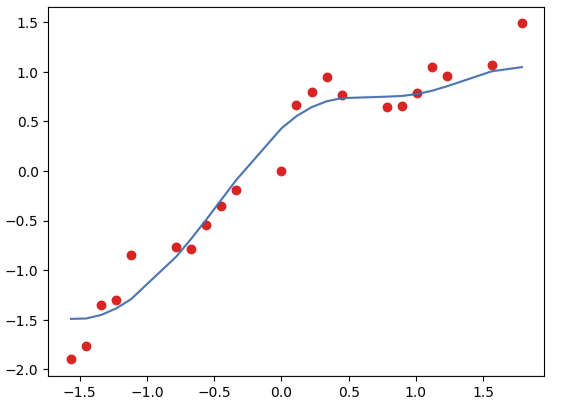
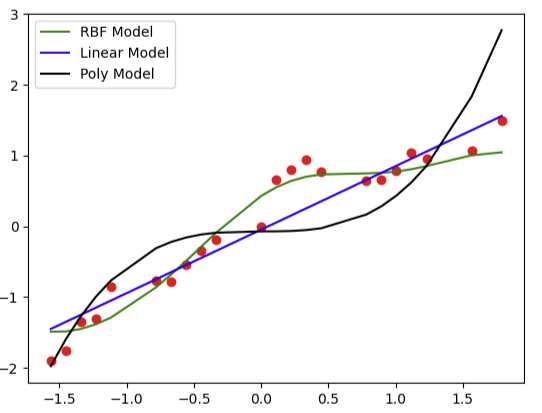
u

diff --git a/Anlasilir Ekonomi/Python ile Makine Öğrenmesi/Notlar.md b/Anlasilir Ekonomi/Python ile Makine Öğrenmesi/Notlar.md
@@ -1648,14 +1648,28 @@ y = scy.fit_transform(y)
 
 from sklearn.svm import SVR
 
-svrmodel = SVR()
-svrmodel.fit(X, y.ravel())
-tahmin = svrmodel.predict(X)
+# RBF kernel
+svr_rbf = SVR(kernel="rbf")
+svr_rbf.fit(X, y)
+tahmin_rbf = svr_rbf.predict(X)
+
+# Linear kernel
+svr_lin = SVR(kernel="linear")
+svr_lin.fit(X, y)
+tahmin_lin = svr_lin.predict(X)
+
+# Poly kernel
+svrpoly=SVR(kernel="poly")
+svrpoly.fit(X,y)
+tahmin_poly=svrpoly.predict(X)
 
 import matplotlib.pyplot as plt
 
 plt.scatter(X, y, color="red")
-plt.plot(X, tahmin)
+plt.plot(X, tahmin_rbf, color="green", label="RBF Model")
+plt.plot(X, tahmin_lin, color="blue", label="Linear Model")
+plt.plot(X, tahmin_poly, color="black", label="Poly Model")
+plt.legend()
 plt.show()
 ```
 
